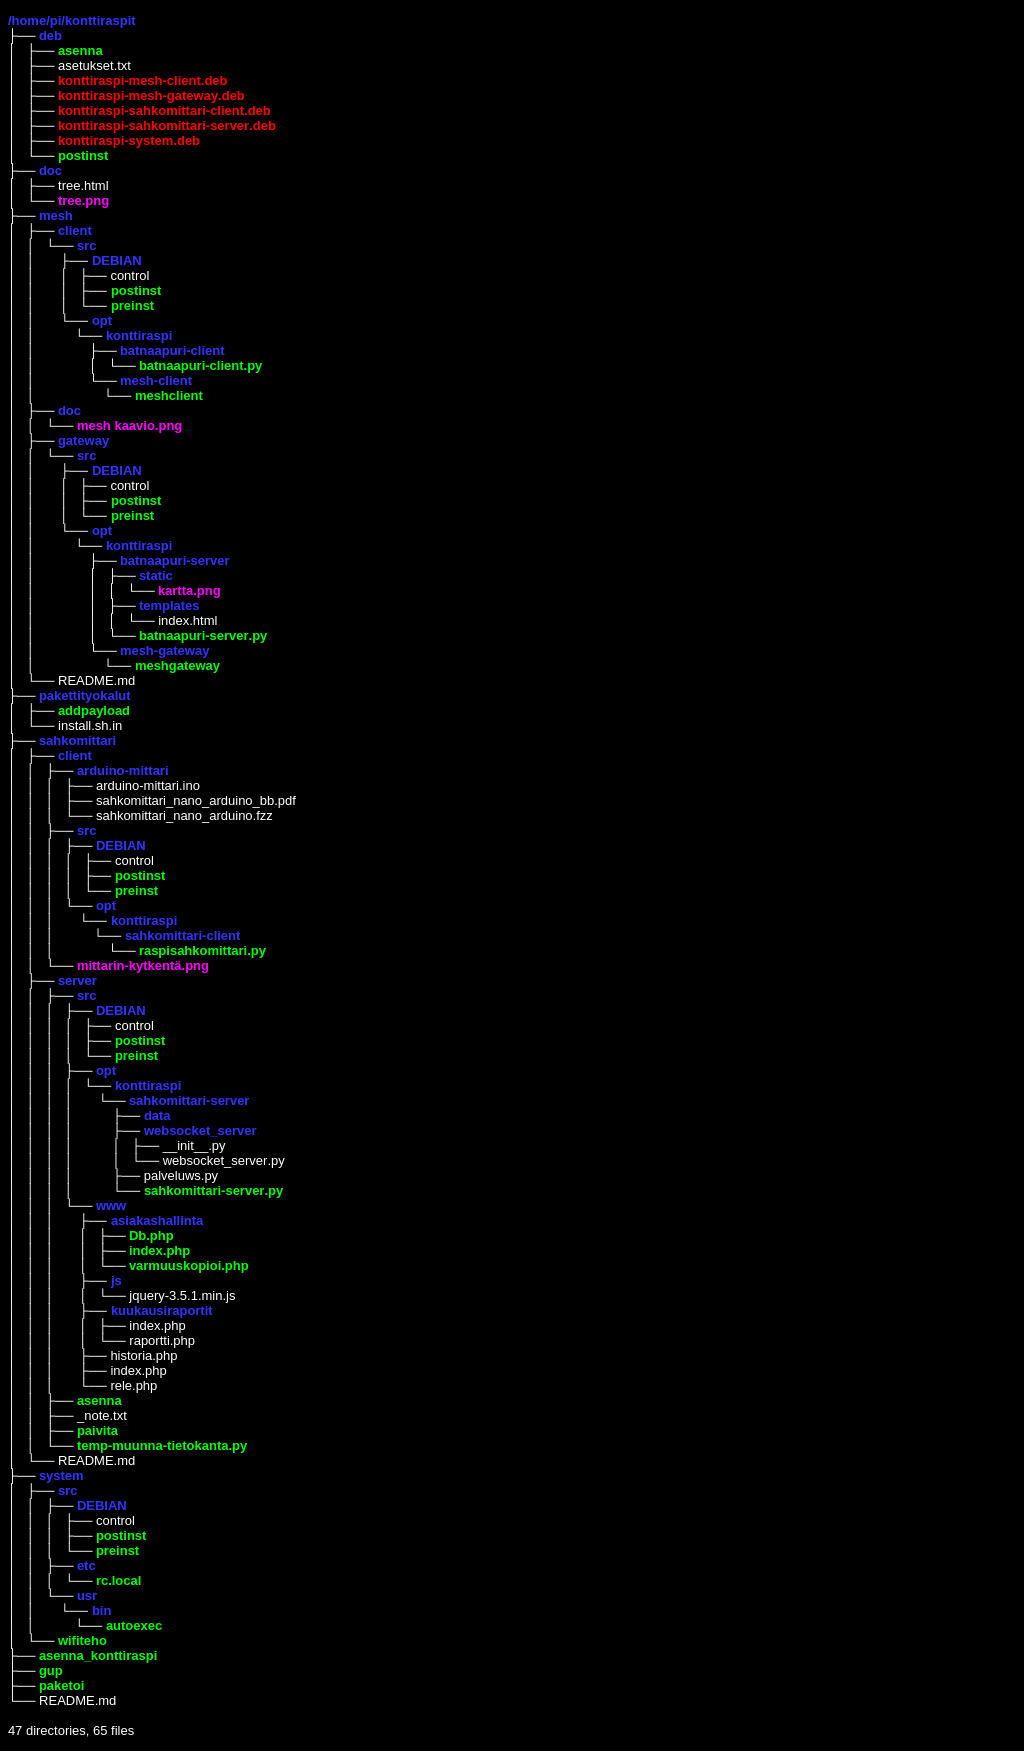
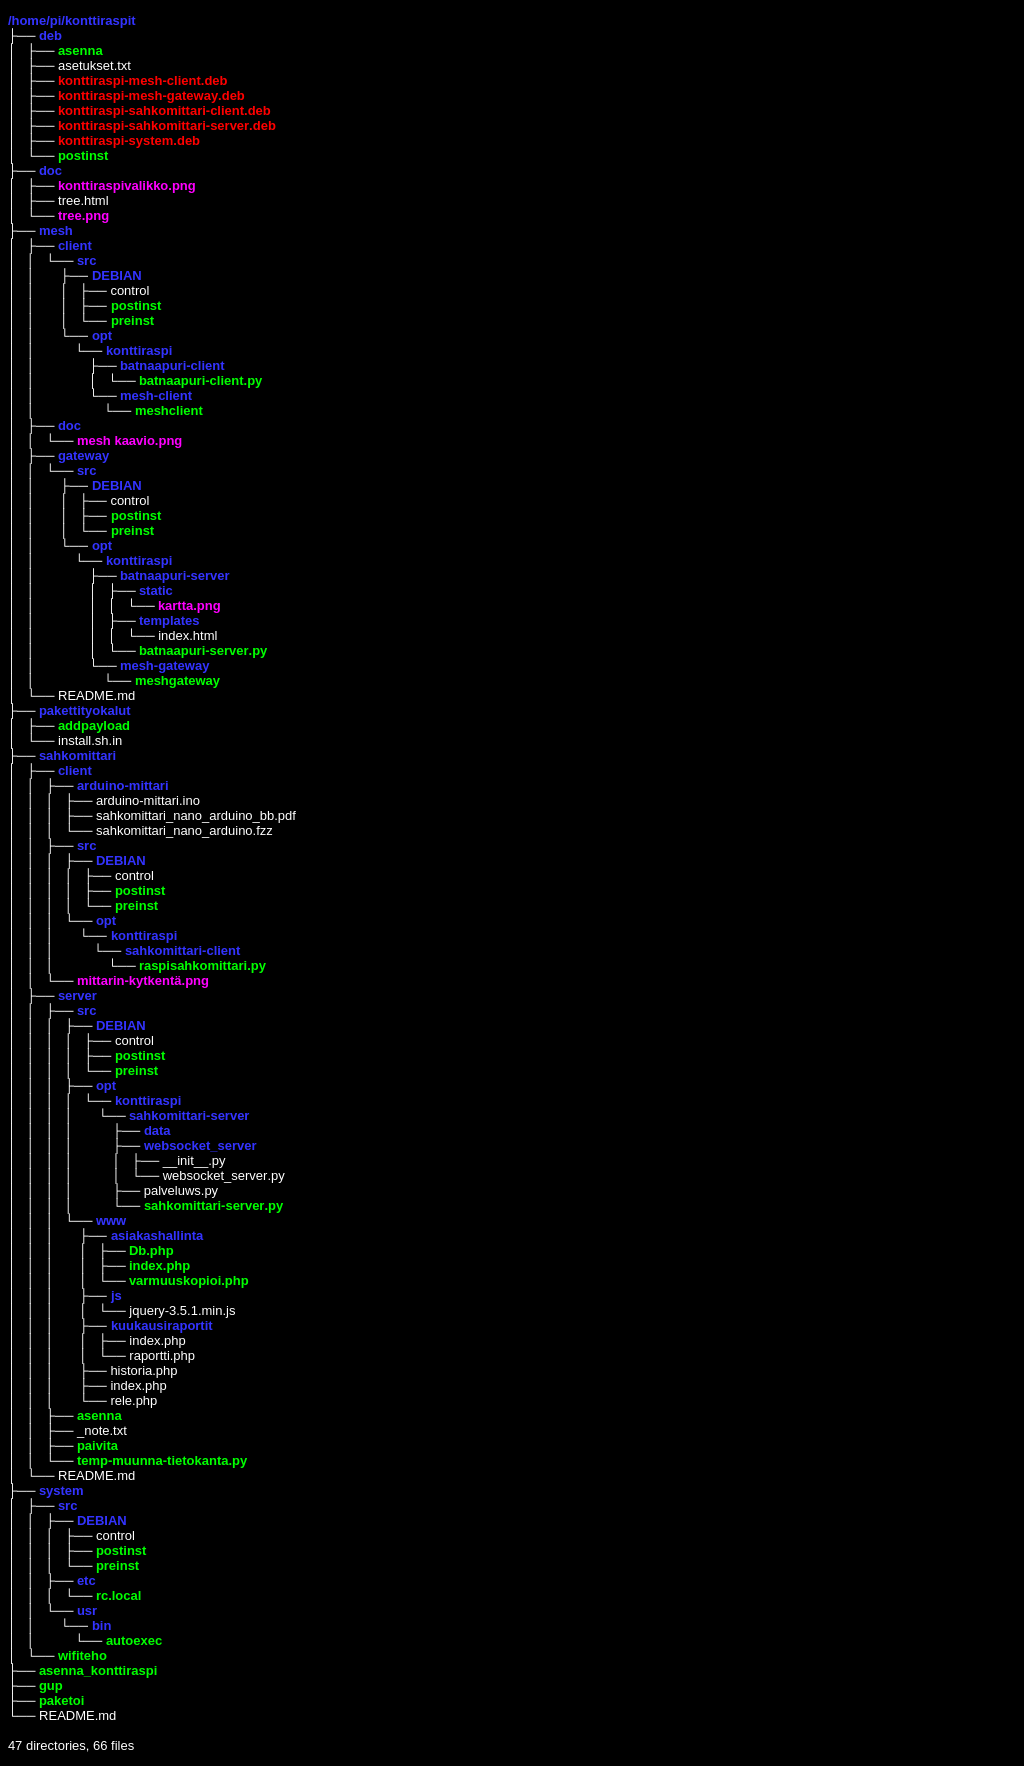
gup

Changed region(s): [[0.0, 0.0, 0.2812, 0.9869]]

diff --git a/doc/tree.html b/doc/tree.html
@@ -19,6 +19,7 @@
 │   ├── <span style="font-weight:bold;color:red;">konttiraspi-system.deb</span>
 │   └── <span style="font-weight:bold;color:lime;">postinst</span>
 ├── <span style="font-weight:bold;color:#3333FF;">doc</span>
+│   ├── <span style="font-weight:bold;color:fuchsia;">konttiraspivalikko.png</span>
 │   ├── tree.html
 │   └── <span style="font-weight:bold;color:fuchsia;">tree.png</span>
 ├── <span style="font-weight:bold;color:#3333FF;">mesh</span>
@@ -122,7 +123,7 @@
 ├── <span style="font-weight:bold;color:lime;">paketoi</span>
 └── README.md
 
-47 directories, 65 files
+47 directories, 66 files
 </pre>
 </body>
 </html>

diff --git a/README.md b/README.md
@@ -1,5 +1,5 @@
 # konttiraspi  
-Asennus:  
+##Asennus:  
 Asenna Raspbian OS Lite muistitikulle ja sen jälkeen siirrä tiedostot  
 **asenna_konttiraspi** ja **asetukset.txt** muistikortin /-boot osiolle.  
 (Tässä vaiheessa kortin voi kloonata halutessaan helpottaa muiden Raspien asennusta)  
@@ -9,8 +9,11 @@ Kirjaudu Raspille ja:
     cd /boot  
     ./asenna_konttiraspi  
   
-  
-Päivittäminen:  
+Valitse asennettavat palvelut:  
+![](https://raw.githubusercontent.com/janttari/konttiraspi/main/doc/konttiraspivalikko.png)  
+
+
+##Päivittäminen:  
 Lataa uusi asenna_konttiraspi muistikortin /boot osiolle.  
   
 Jos haluat muuttaa asennuksen ominaisuuksia (valikot):  
